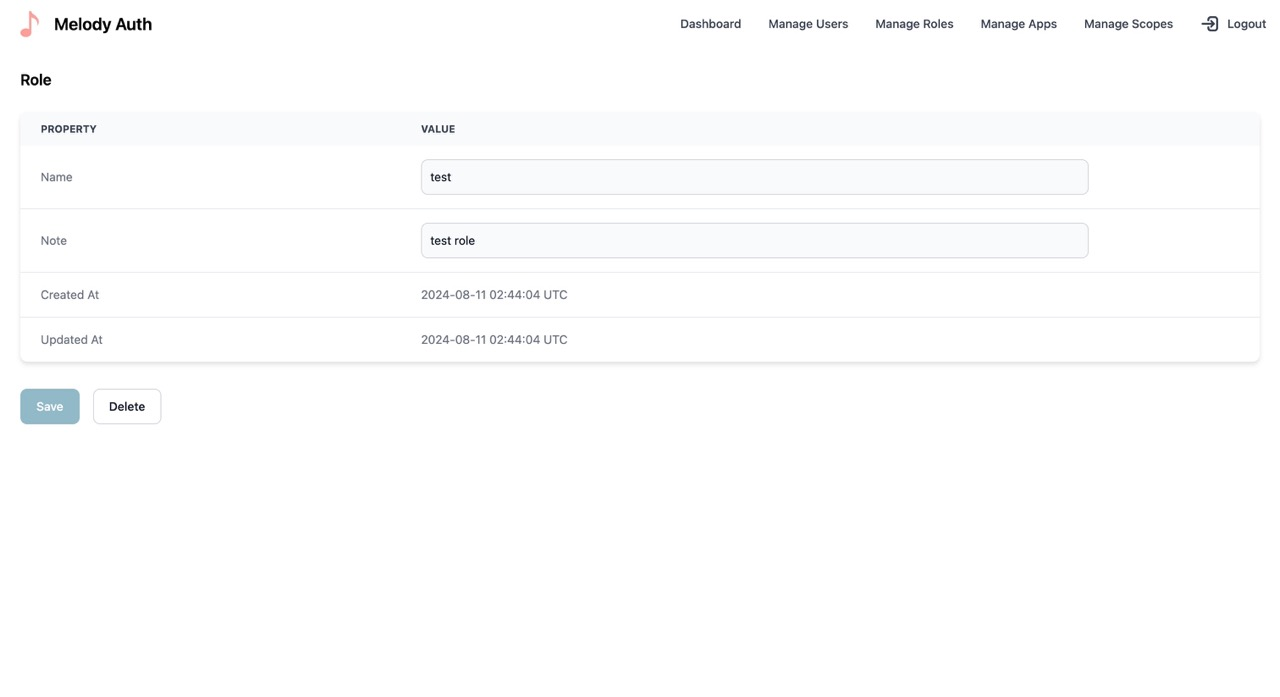
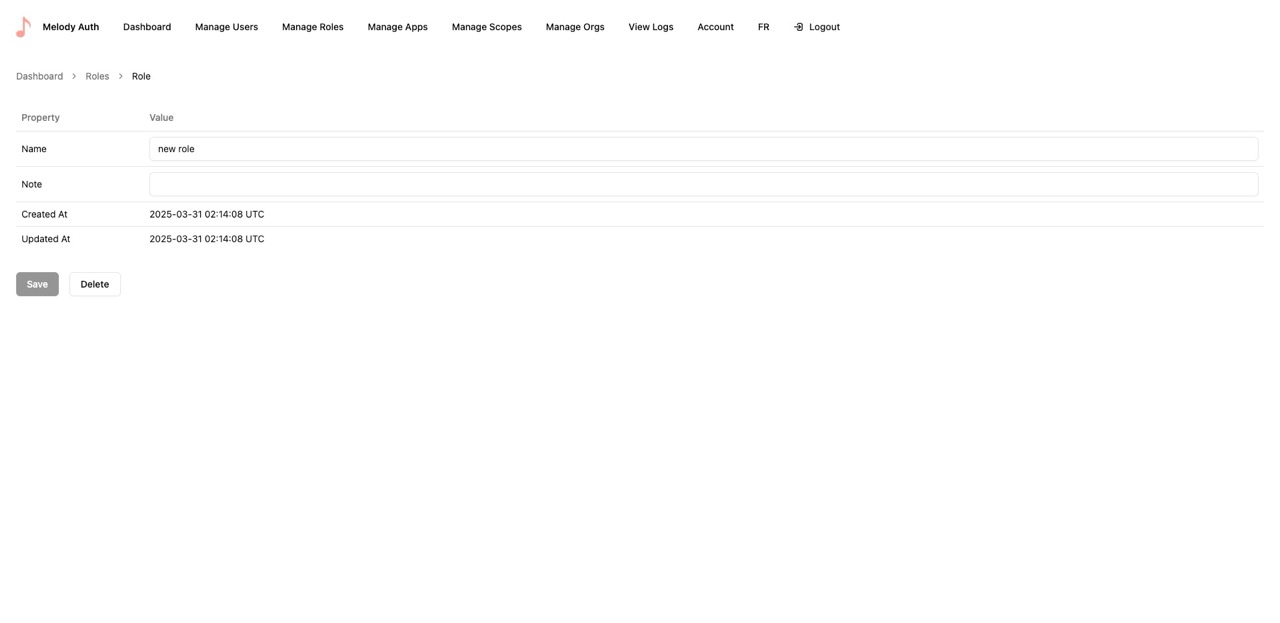
Update docs and screenshots for admin panel (#284)

diff --git a/docs/screenshots.md b/docs/screenshots.md
@@ -16,6 +16,9 @@ These screenshots showcase various pages and emails related to identity system a
 ### App Consent
 ![App Consent](https://raw.githubusercontent.com/ValueMelody/melody-auth/main/docs/screenshots/app_consent.jpeg)
 
+### Passkey Enroll
+![Passkey Enroll](https://raw.githubusercontent.com/ValueMelody/melody-auth/main/docs/screenshots/passkey_enroll.jpeg)
+
 ### MFA Enroll
 ![OTP MFA](https://raw.githubusercontent.com/ValueMelody/melody-auth/main/docs/screenshots/mfa_enroll.jpeg)
 
@@ -51,6 +54,12 @@ These screenshots showcase various pages and emails related to identity system a
 ### Reset MFA Policy
 ![Reset MFA Policy](https://raw.githubusercontent.com/ValueMelody/melody-auth/main/docs/screenshots/reset_mfa_policy.jpeg)
 
+### Update Info Policy
+![Update Info Policy](https://raw.githubusercontent.com/ValueMelody/melody-auth/main/docs/screenshots/update_info_policy.jpeg)
+
+### Manage Passkey Policy
+![Manage Passkey Policy](https://raw.githubusercontent.com/ValueMelody/melody-auth/main/docs/screenshots/manage_passkey_policy.jpeg)
+
 ## Admin Panel Pages
 
 ### Dashboard
@@ -81,3 +90,22 @@ These screenshots showcase various pages and emails related to identity system a
 ![Scope](https://raw.githubusercontent.com/ValueMelody/melody-auth/main/docs/screenshots/admin-panel-scope.jpeg)
 
 ![Create Scope](https://raw.githubusercontent.com/ValueMelody/melody-auth/main/docs/screenshots/admin-panel-scope-create.jpeg)
+
+### Orgs
+![Orgs](https://raw.githubusercontent.com/ValueMelody/melody-auth/main/docs/screenshots/admin-panel-orgs.jpeg)
+
+![Org](https://raw.githubusercontent.com/ValueMelody/melody-auth/main/docs/screenshots/admin-panel-org.jpeg)
+
+![Create Org](https://raw.githubusercontent.com/ValueMelody/melody-auth/main/docs/screenshots/admin-panel-org-create.jpeg)
+
+### Logs
+![Logs](https://raw.githubusercontent.com/ValueMelody/melody-auth/main/docs/screenshots/admin-panel-logs.jpeg)
+
+![Email Log](https://raw.githubusercontent.com/ValueMelody/melody-auth/main/docs/screenshots/admin-panel-email-log.jpeg)
+
+![Sms Log](https://raw.githubusercontent.com/ValueMelody/melody-auth/main/docs/screenshots/admin-panel-sms-log.jpeg)
+
+![Sign-in Log](https://raw.githubusercontent.com/ValueMelody/melody-auth/main/docs/screenshots/admin-panel-sign-in-log.jpeg)
+
+### Account
+![Account](https://raw.githubusercontent.com/ValueMelody/melody-auth/main/docs/screenshots/admin-panel-account.jpeg)

diff --git a/docs/admin-panel-setup.md b/docs/admin-panel-setup.md
@@ -85,3 +85,8 @@ Steps to Deploy:
     ```
     npm run cf:deploy
     ```
+
+## Custom Role Access for the Admin Panel
+By default, the admin panel only accepts logins from the super_admin role. To enable login using a custom role with limited permissions, follow these steps:
+1. Add your custom role to the **AllowedRoles** array in /admin-panel/tools/access.
+2. Define the access permissions for your custom role within **RoleAccesses** in /admin-panel/tools/access.

diff --git a/README.md b/README.md
@@ -93,7 +93,7 @@
 - Manage Roles
 - Manage Organizations
 - View Logs
-- Access Control
+- Access Control [Custom Role Access for the Admin Panel](https://auth.valuemelody.com/admin-panel-setup.html#custom-role-access-for-the-admin-panel)
 
 ## Demo & Examples
 - [Vite React Example](https://github.com/ValueMelody/melody-auth/tree/main/examples/vite-react-demo)
